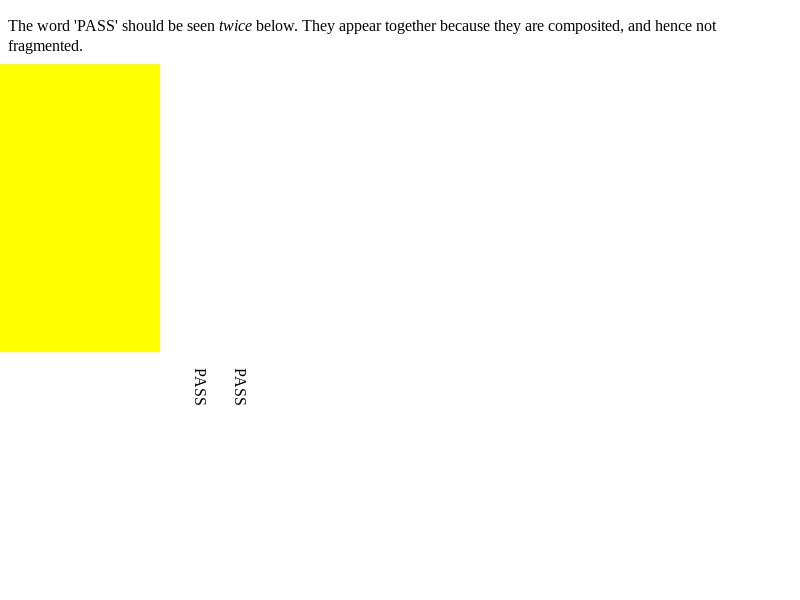
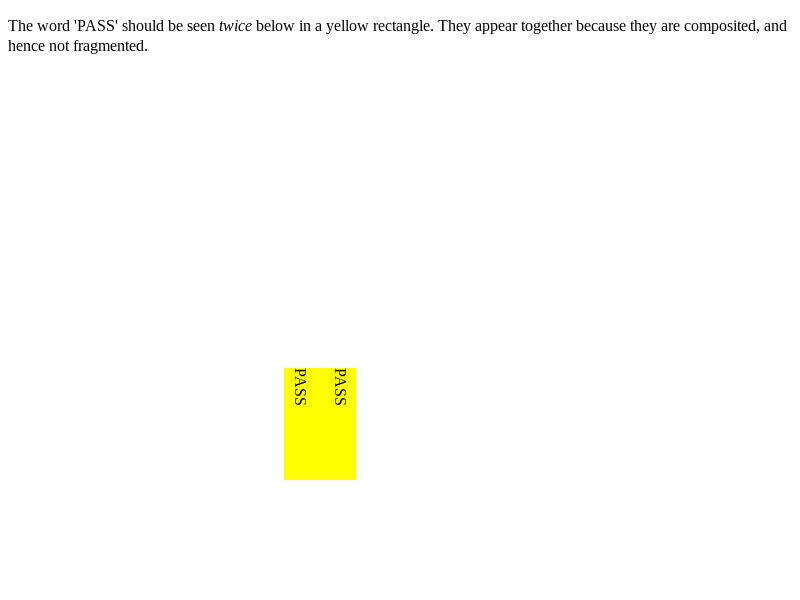
[BGPT] Rebaseline two multicol tests
- fast/multicol/composited-layer-nested.html
  According to discussions and data in crbug.com/854192, we should not
  fragment a composited/squashed layer as a whole no matter if there
  are nested composited layers under it (as current BGPT code does).

- fast/multicol/vertical-rl/composited-relpos-overlapping-will-change.html
  The new result looks more correct (the composited layer is placed
  in the second column where the layer's border box rect starts). Also
  updated the test to show more clearly.

Bug: 854192
Cq-Include-Trybots: luci.chromium.try:linux-blink-gen-property-trees;luci.chromium.try:linux_layout_tests_slimming_paint_v2;master.tryserver.blink:linux_trusty_blink_rel
Commit-Queue: Xianzhu Wang <wangxianzhu@chromium.org>
Cr-Commit-Position: refs/heads/master@{#584661}

diff --git a/.upstream-WebKit/LayoutTests/fast/multicol/vertical-rl/composited-relpos-overlapping-will-change.html b/.upstream-WebKit/LayoutTests/fast/multicol/vertical-rl/composited-relpos-overlapping-will-change.html
@@ -1,7 +1,7 @@
 <!DOCTYPE html>
-<p>The word 'PASS' should be seen <em>twice</em> below. They appear together because they are composited, and hence not fragmented.</p>
-<div style="-webkit-columns:3; -webkit-column-gap:1em; column-fill:auto; -webkit-writing-mode:vertical-rl; height:26em; width:13em; line-height:2em; orphans:1; widows:1;">
-    <div style="will-change:transform; position:absolute; left:0; top:4em; width:10em; height:18em; background:yellow;"></div>
+<p>The word 'PASS' should be seen <em>twice</em> below in a yellow rectangle. They appear together because they are composited, and hence not fragmented.</p>
+<div style="margin-left:100px; -webkit-columns:3; -webkit-column-gap:1em; column-fill:auto; -webkit-writing-mode:vertical-rl; height:26em; width:13em; line-height:2em; orphans:1; widows:1;">
+    <div style="will-change:transform; position:absolute; left:100px; top:4em; width:10em; height:18em"></div>
     <br>
     <br>
     <br>
@@ -13,5 +13,5 @@
     <br>
     <br>
     <br>
-    <div style="position:relative; margin:0.5em;">PASS<br>PASS</div>
+    <div style="background: yellow; position:relative; margin:0.5em;">PASS<br>PASS</div>
 </div>
